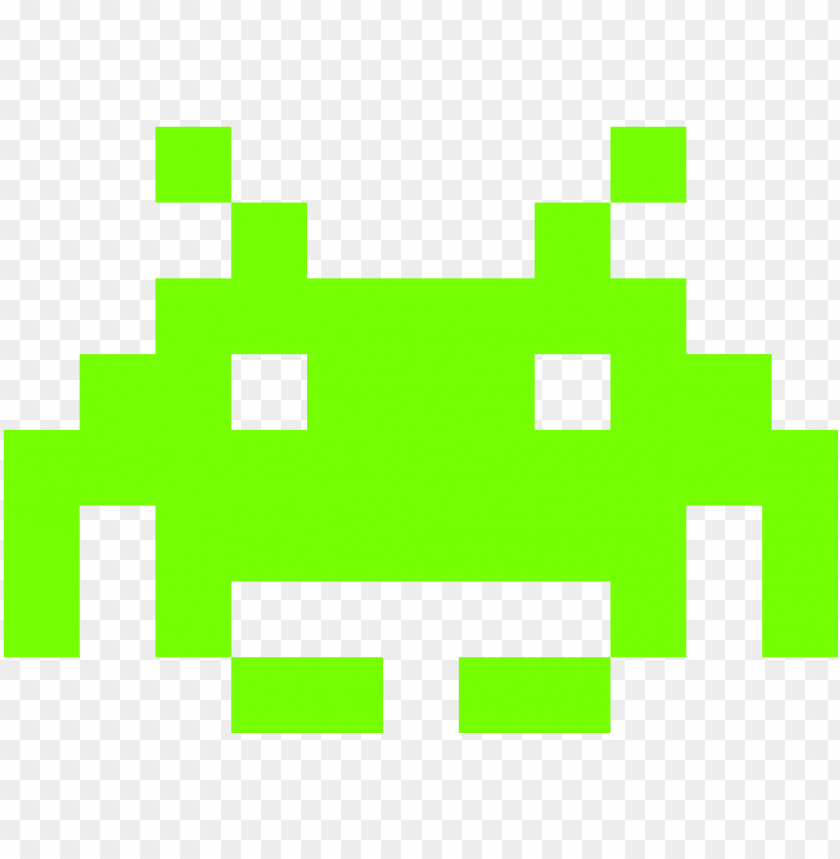
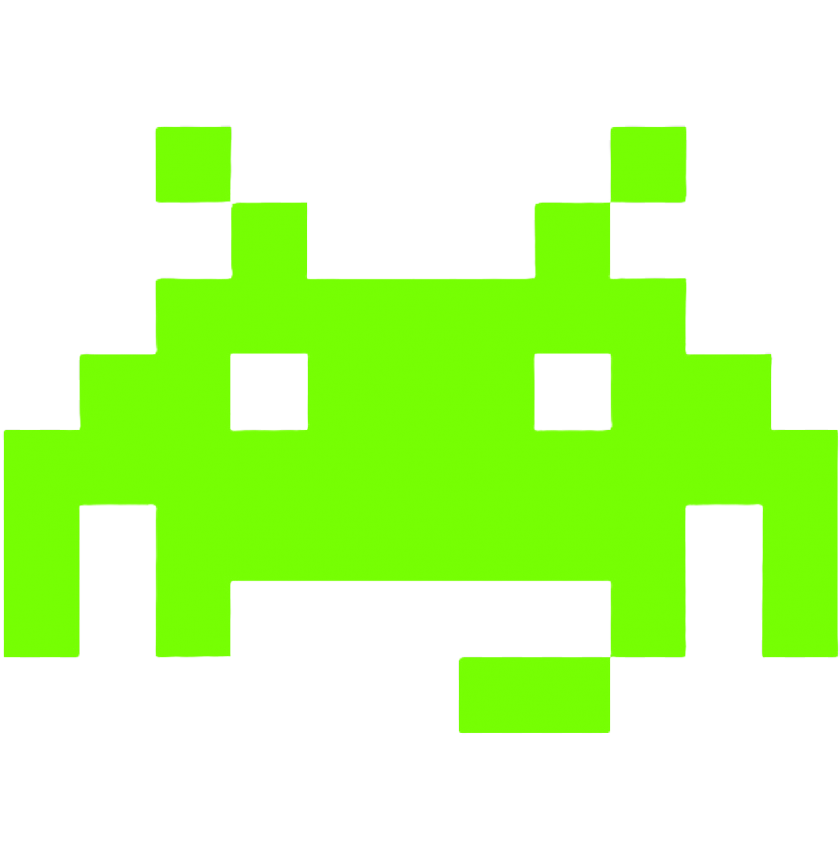
Made new sprites with transparent background

Changed region(s): [[0.2476, 0.7567, 0.4643, 0.8778], [0.9905, 0.5146, 1.0, 0.7567], [0.2476, 0.2119, 0.2786, 0.2421]]

diff --git a/main.py b/main.py
@@ -17,7 +17,7 @@ pygame.display.set_caption("SHOOTER")
 running=True
 
 # Enemy Section ------------------------------------------------------------------------------
-e1_sprite = pygame.image.load("Assets/alien1.png")
+e1_sprite = pygame.image.load("Assets/alien2.png")
 enemy_size=[100,100]
 enemy_pos= [100,100]
 speed=0.2
